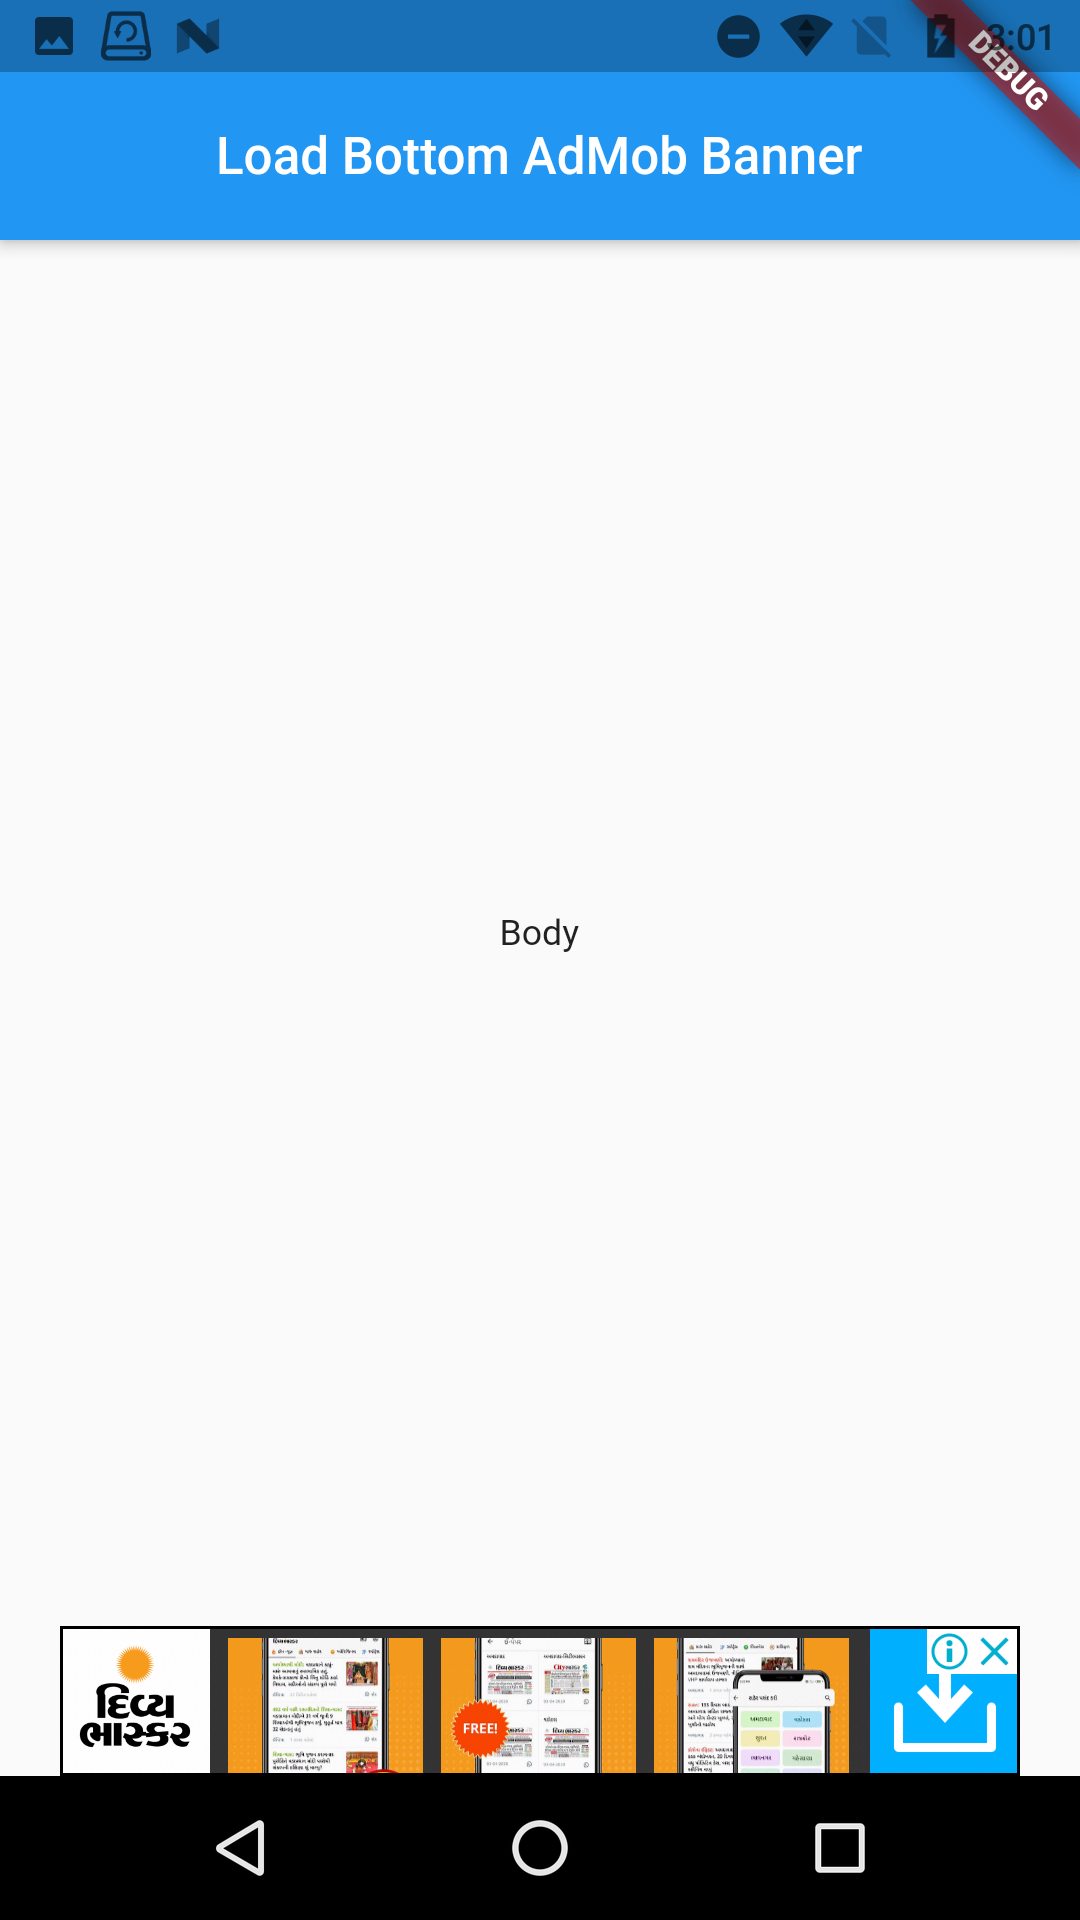
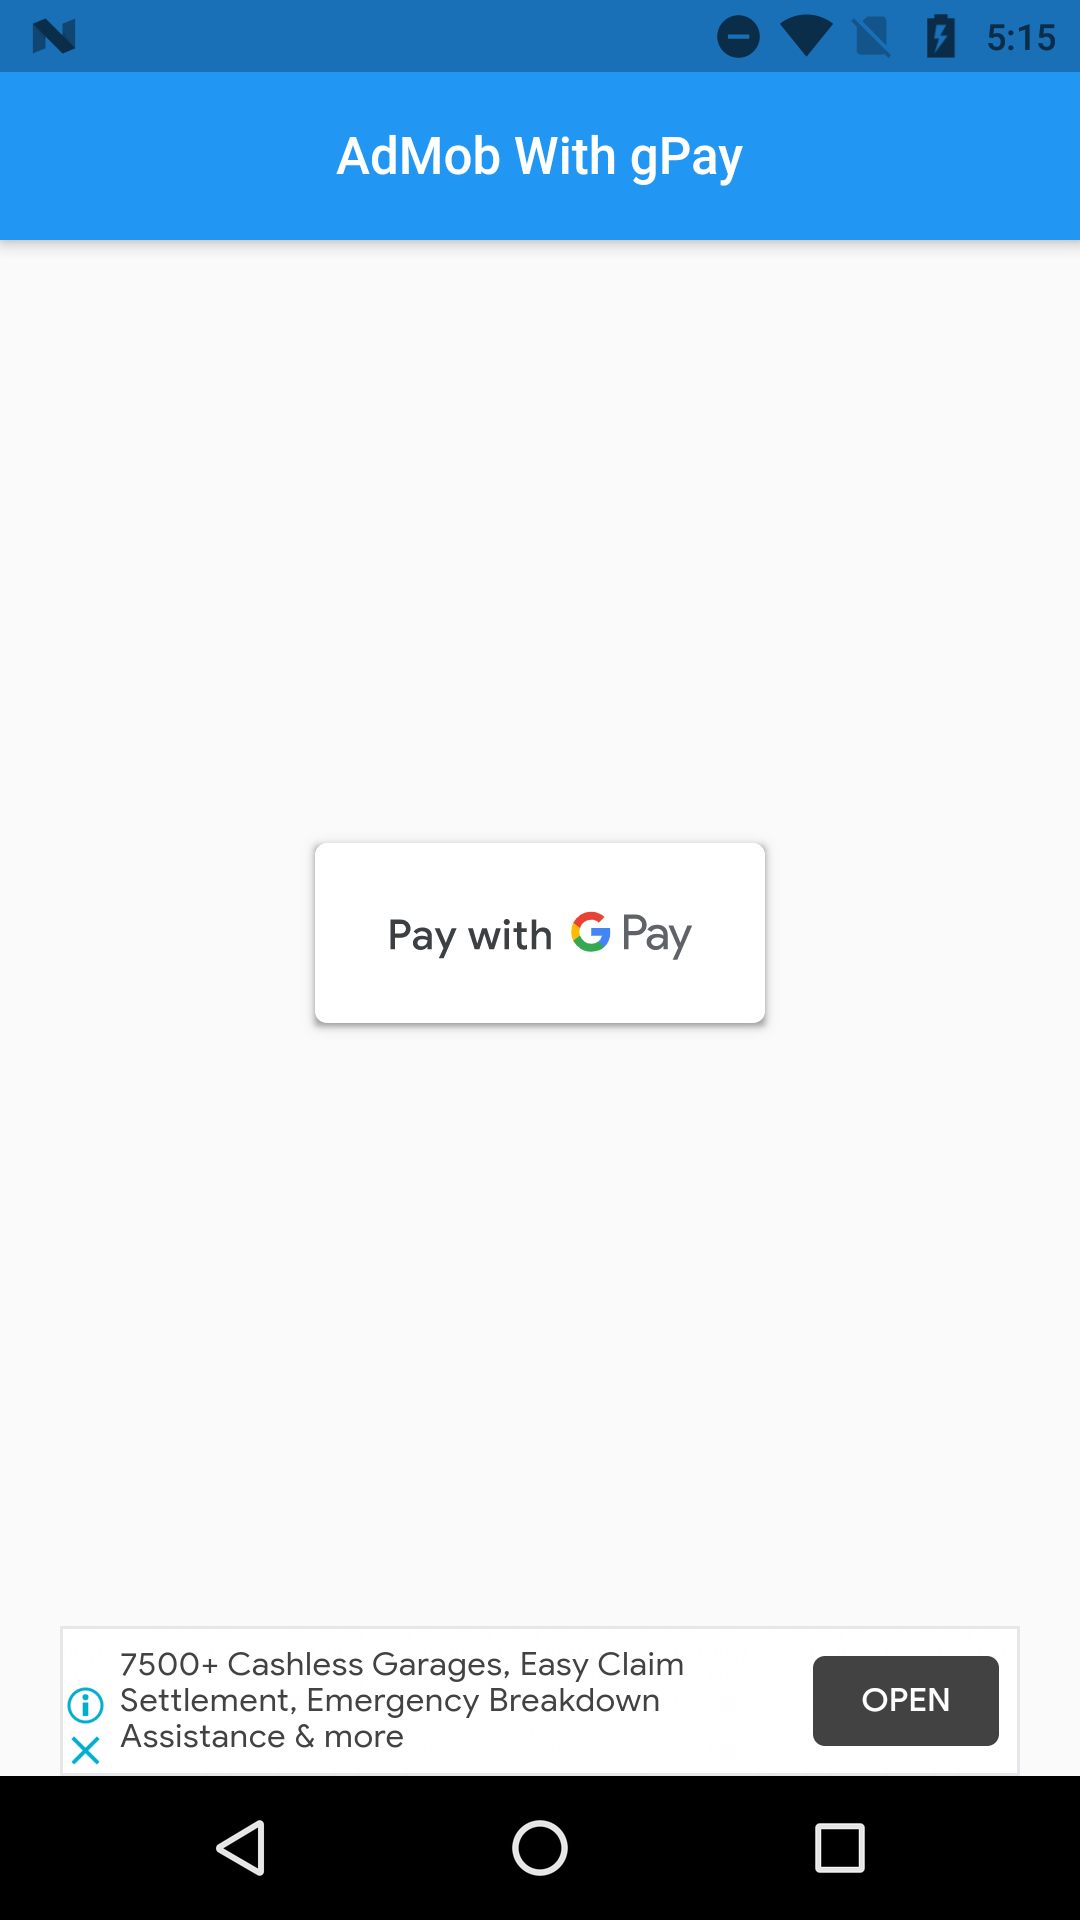
Updated title

diff --git a/lib/home.dart b/lib/home.dart
@@ -56,7 +56,7 @@ class _HomeState extends State<Home> {
             )
           : null,
       appBar: AppBar(
-        title: Text('Load Bottom AdMob Banner'),
+        title: Text('AdMob With gPay'),
         centerTitle: true,
       ),
       body: Container(
